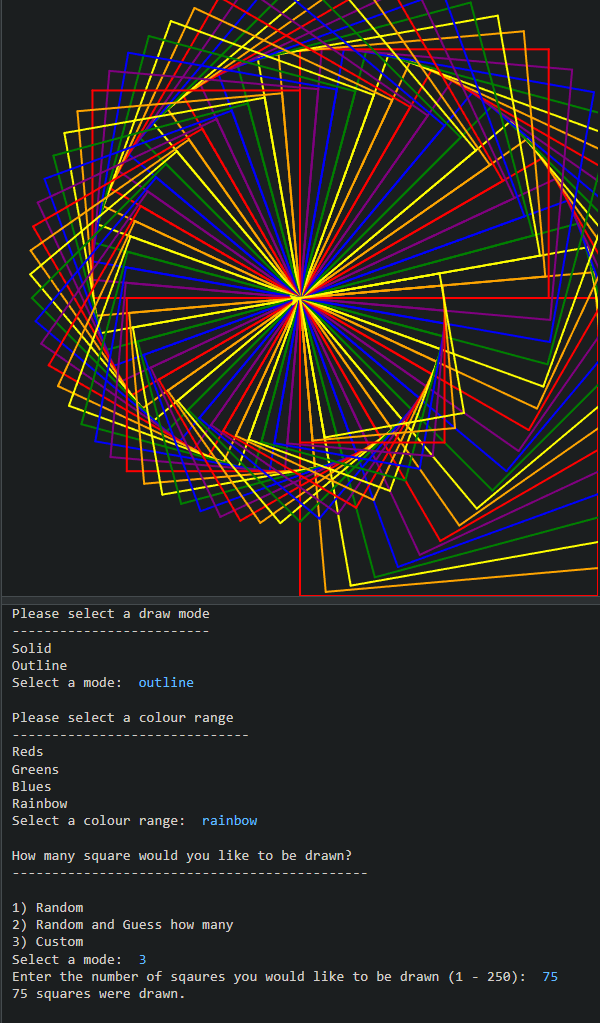
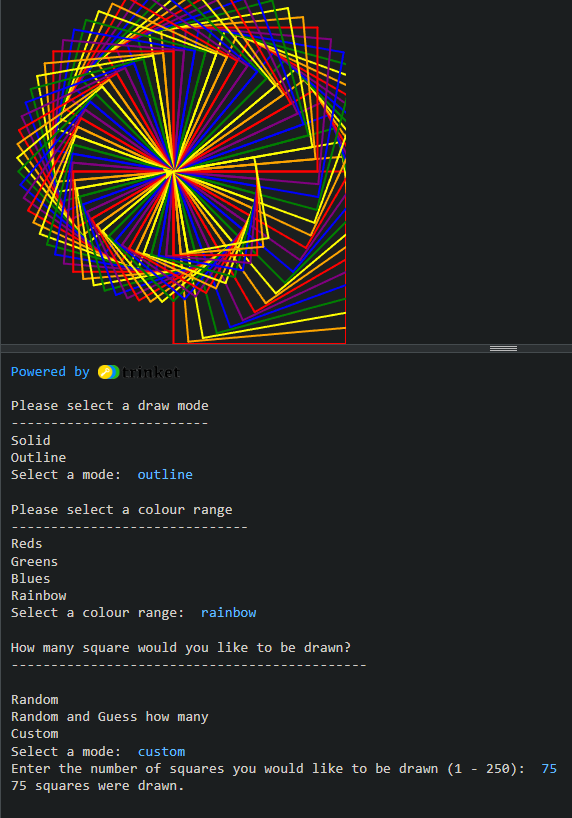
Updated README.md to fit new code

diff --git a/4.4/README.md b/4.4/README.md
@@ -42,9 +42,9 @@ Input Greens, for a colour range of Greens
 Input Blues, for a colour range of Blues  
 Input Rainbow, for a rainbow
 ### Square Count/Stair Depth
-Input 1, for a random depth, displays depth after drawing  
-Input 2, for a random depth then guess how many  
-Input 3, for a custom depth (1-250)
+Input Random, for a random depth, displays depth after drawing  
+Input Random and Guess, for a random depth then guess how many  
+Input Custom, for a custom depth (1-250)
 
 ### Guess (If selected)
 Input a number (without counting) and get a hint (higher or lower)  
@@ -53,14 +53,14 @@ Input correct number and receive comment dynamic to performance
 ## **Showcases**
 ### Example 1
 Configuration: Solid, Reds, Random  
-Input: `solid`, `reds`, `1`
+Input: `solid`, `reds`, `random`
 
-Output: Red tone spiral staircase with random depth (49)  
+Output: Red tone spiral staircase with random depth (76)  
 Screenshot: ![Example 1](assets/example-1.png)
 
 ### Example 2
 Configuration: Outline, Rainbow, Custom: 75  
-Input: `outline`, `rainbow`, `3`, `75`
+Input: `outline`, `rainbow`, `custom`, `75`
 
 Output: Rainbow spiral staircase/wireframe with depth of 75  
 Screenshot: ![Example 2](assets/example-2.png)
